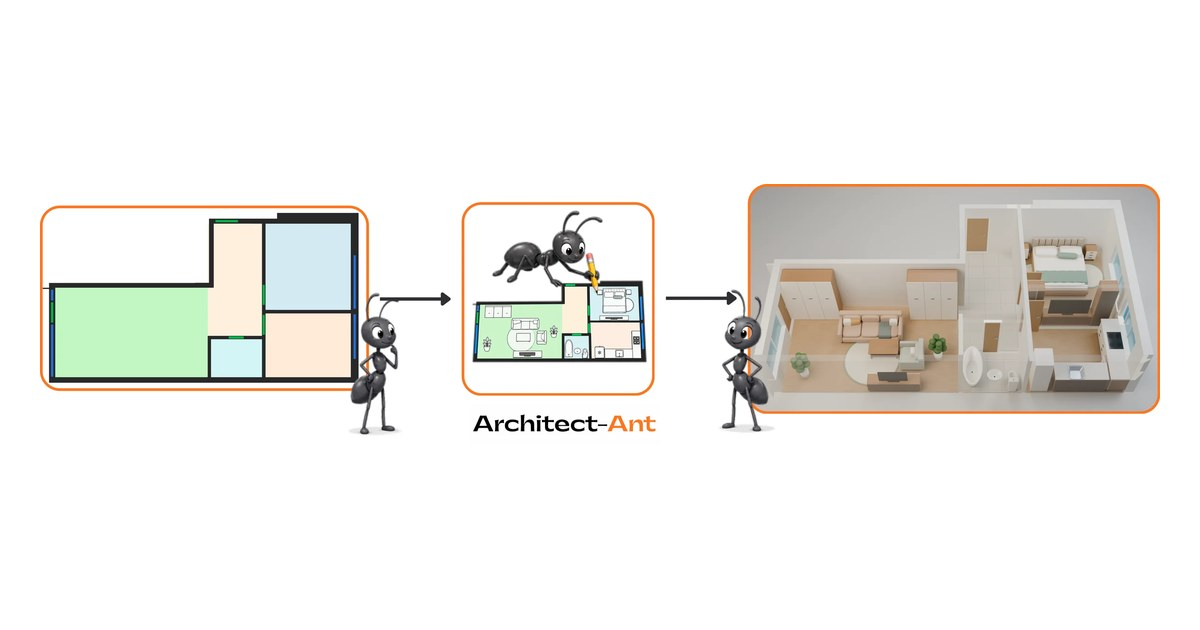
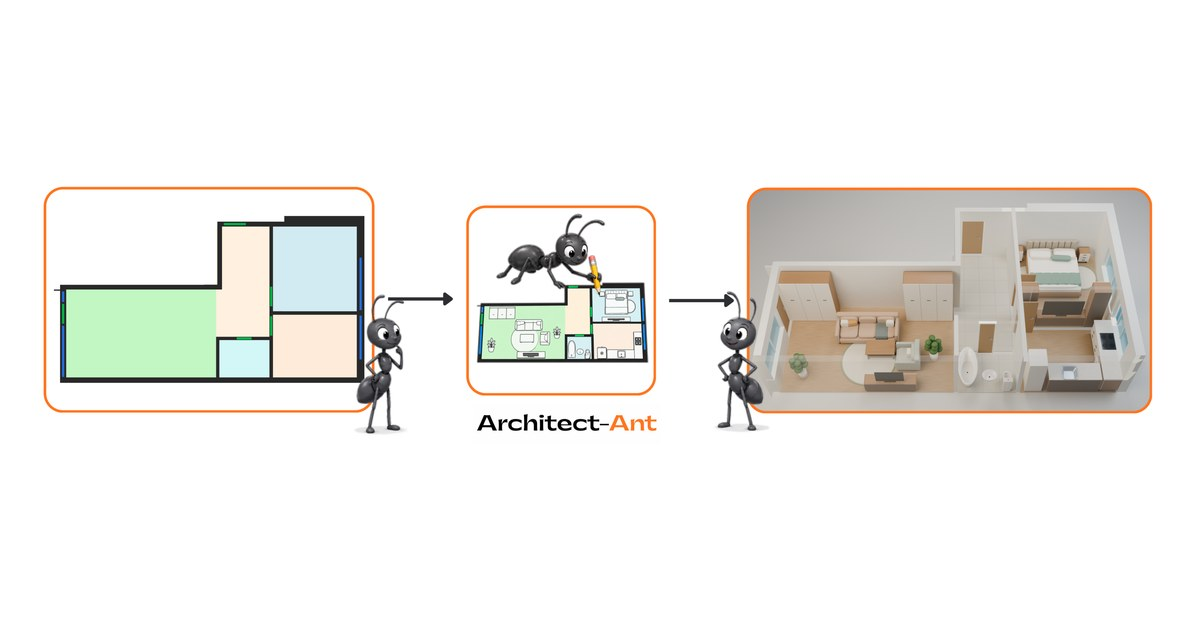
Use the paper's teaser (figures/teaser_ap.pdf)

diff --git a/index.html b/index.html
@@ -94,7 +94,7 @@
       3D comparison</a>
   </div>
   <figure class="teaser">
-    <img src="assets/img/teaser_ant.webp" width="2400" height="559" alt="Architect-Ant turns an empty structured floor plan into an editable furniture layout and a furnished 3D scene.">
+    <img src="assets/img/teaser_ap.webp" width="2400" height="588" alt="Architect-Ant turns an empty structured floor plan into an editable furniture layout and a furnished 3D scene.">
     <figcaption>Architect-Ant turns an empty structured floor plan into a furnished 3D scene through an editable, object-level layout.</figcaption>
   </figure>
 </header>
